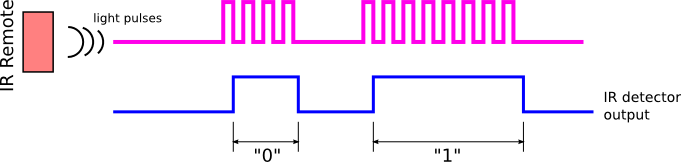
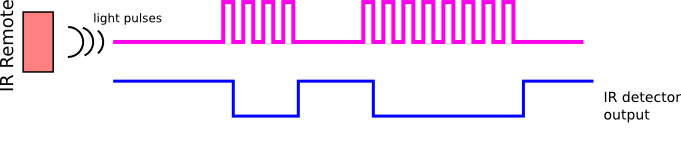
Updated 'building the irpi' and 'putting the ir in irpi' sections

diff --git a/IRPi Onepage Website/index.html b/IRPi Onepage Website/index.html
@@ -8,7 +8,7 @@
     <meta name="description" content="">
     <meta name="author" content="">
 
-    <title>IRPi - The Universal IR Remote</title>
+    <title>IRPi - The Universal IoT IR Remote</title>
 
     <!-- Bootstrap core CSS -->
     <link href="vendor/bootstrap/css/bootstrap.min.css" rel="stylesheet">
@@ -95,7 +95,7 @@
     <section id="about" class="py-5"  style="background-color:pink">
       <div class="container">
         <h1>What is IRPi?</h1>
-        <p>IRPi is a universal IR remote based on Raspberry Pi. It allows you to control any IR-based device such as TVs, set-top boxes and air conditioners. IRPi controls mulitple devices from the cloud using a simple and intuitive interface.</p>
+        <p>IRPi is a universal IoT IR remote based on Raspberry Pi. It allows you to control any IR-based device such as TVs, set-top boxes and air conditioners. IRPi controls mulitple devices from the cloud using a simple and intuitive interface.</p>
         <!--<p>The background images for the slider are set directly in the HTML using inline CSS. The rest of the styles for this template are contained within the
           <code>half-slider.css</code>file.</p>-->
       </div>
@@ -124,7 +124,7 @@
     <section class="py-5">
       <div class="container">
         <h1>Building the IRPi</h1>
-        <p>The universal remote is built from the following- a Raspberry Pi 3, an IR receiver and an IR transmitter (LED). The following diagram shows the wiring of the IRPi:</p>
+        <p>The universal remote is built from the following- a Raspberry Pi 3, an IR receiver and an IR transmitter (LED). The IR LED is connected to a 555 timer that modulates a 38kHz frequency.  We also connected a green LED for debugging and a pushbutton to accept input. The following diagram shows the wiring of the IRPi:</p>
 
         <img src="photos/breadboard_with_info.png" margin-bottom="20px" margin-top="20px" width="70%">
 
@@ -134,13 +134,14 @@
     <section class="py-5"  style="background-color:lightblue">
       <div class="container">
         <h2>Putting the IR in IRPi</h2>
-        <p>IR is a light wave with a longer length than red light - this makes it invisible to the human eye. Since most day-to-day objects emmit IR signal naturally, IR remotes/receivers don't simply emmit and record IR; they use a unique protocol. Only when the transmitter modulates IR at a 38Khz frequency, the receiver detects a 'high' signal. This can be explained simply in the following diagram.</p>
+        <p>IR is a light wave with a longer length than red light - this makes it invisible to the human eye. Since many day-to-day objects emmit IR signal naturally, IR remotes/receivers don't simply emmit and record IR; they use a unique protocol. Only when the transmitter modulates IR at a 38Khz frequency, the receiver detects a 'low' signal. This can be explained simply by the following diagram.</p>
 
         <img src="photos/ir_signal.png" margin-bottom="20px">
 
-        <p>In order to read and transmit IR codes from the receiver, we used the GPIO library provided by microsoft.<br>
-        For reading signals, we used the GPIOChangeReader class provided by microsoft. It uses DMA to record fast changes in the IR receiver signal, which we can later read from the device using the class.<br>
-        Transmitting was a bigger challenge for us. Using software only to obtain an accurate and reliable 38Khz rate wasn't succesful. For that purpuse we used a '555 timer' connected to the IR LED on our breadboard.</p>
+        <p>In order to read and transmit IR codes, we used the GPIO library provided by microsoft. It allows to read and write to the GPIO pins on the RPi.<br>
+		Since we worked with Windows 10, which is not a real time operating system, this part was quite challenging. As explained earlier, to recive and transmit IR codes there is a need to change from high to low voltage in a 38kHz frequency. Altough the RPi is fast enough, the operation system often stops the code in order to maintain itself. Therefore our naive attempts to obtain an accurate and reliable 38kHz rate failed and we had to find smarter solutions.<br>
+        For reading signals, the IR reciver outputs 'high' or 'low' voltage based on the IR frequency as showen in the last diagram. We used the GPIOChangeReader class provided by microsoft. It places timestamps in kernal mode to record fast changes in the IR receiver signal, which we can later read from the device in user mode.<br>
+        Transmitting was a bigger challenge for us. For that purpuse we used a '555 timer' connected to the IR LED on our breadboard. The '555 timer' modulates a 38kHz frequency, and we use the GPIO to enable or disable the timer. The output of the timer is connected to the IR LED.</p>
       </div>
     </section>
 
@@ -194,30 +195,27 @@
 	<section id="contact" class="wrapper style1 special">
 	    <div class="inner">
 	        <header>
-	            <h2>Ipsum Feugiat</h2>
-	            <p>Semper suscipit posuere apede</p>
+	            <h2>IRPi</h2>
+	            <p>The Universal IoT IR Remote</p>
 	        </header>
 	        <div class="flex flex-4">
 	            <div class="box person">
 	                <div class="image round">
-	                    <img src="/Images/pic03.jpg" alt="Person 1" />
+	                    <img src="/Images/pic03.jpg" alt="Omer Kafri" />
 	                </div>
-	                <h3>Magna</h3>
-	                <p>Cipdum dolor</p>
+	                <h3>Omer Kafri</h3>
 	            </div>
 	            <div class="box person">
 	                <div class="image round">
-	                    <img src="/Images/pic04.jpg" alt="Person 2" />
+	                    <img src="/Images/pic04.jpg" alt="Amit Atsmon" />
 	                </div>
-	                <h3>Ipsum</h3>
-	                <p>Vestibulum comm</p>
+	                <h3>Amit Atsmon</h3>
 	            </div>
 	            <div class="box person">
 	                <div class="image round">
-	                    <img src="/Images/pic05.jpg" alt="Person 3" />
+	                    <img src="/Images/pic05.jpg" alt="Gal Wiernik" />
 	                </div>
-	                <h3>Tempus</h3>
-	                <p>Fusce pellentes</p>
+	                <h3>Gal Wiernik</h3>
 	            </div>
 	        </div>
 	    </div>
